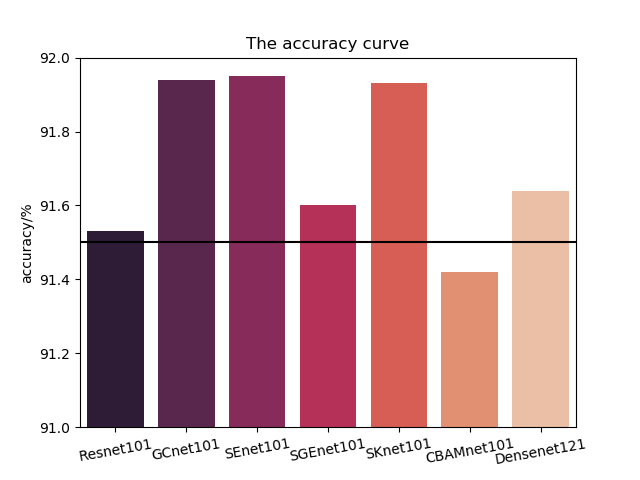
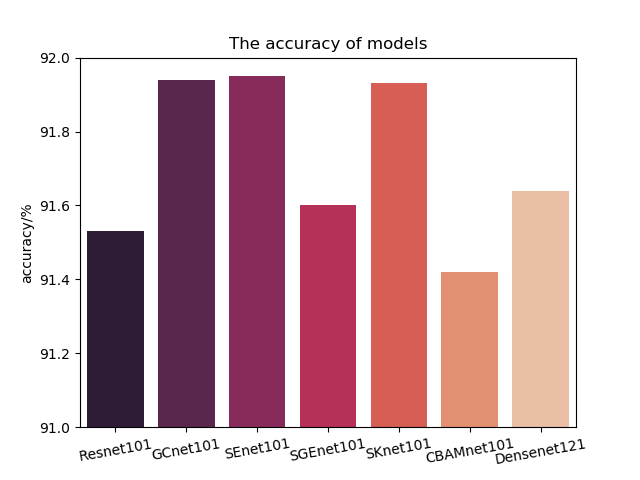
add activation maps

Changed region(s): [[0.125, 0.5, 0.9062, 0.5312], [0.3438, 0.0625, 0.6562, 0.125]]

diff --git a/data_analysis/exp_data_visulize.py b/data_analysis/exp_data_visulize.py
@@ -15,7 +15,7 @@ def drawPRCurve(model_list, p_list, r_list, save_path):
     ax.grid(True)
     plt.xlabel("recall/%")
     plt.ylabel("precision/%")
-    plt.title("The PR curve")
+    plt.title("The precision and recall scatter")
     plt.xlim([63, 67])
     plt.ylim([79, 80])
     plt.savefig(save_path)
@@ -42,7 +42,7 @@ if __name__ == "__main__":
     data = {
         "Resnet101": {"accuracy": 91.53, "precision": 79.81, "recall": 63.67, "F1": 68.52},
         "GCnet101": {"accuracy": 91.94, "precision": 79.45, "recall": 65.64, "F1": 68.94},
-        "SEnet101": {"accuracy": 91.95, "precision": 79.81, "recall": 66.64, "F1": 68.99},
+        "SEnet101": {"accuracy": 91.95, "precision": 79.81, "recall": 66.64, "F1": 69.99},
         "SGEnet101": {"accuracy": 91.60, "precision": 79.23, "recall": 65.40, "F1": 69.77},
         "SKnet101": {"accuracy": 91.93, "precision": 79.69, "recall": 65.54, "F1": 69.95},
         "CBAMnet101": {"accuracy": 91.42, "precision": 79.12, "recall": 65.32, "F1": 69.24},
@@ -69,7 +69,7 @@ if __name__ == "__main__":
             if k == "F1":
                 f_list.append(v)
 
-    drawPRCurve(model_list, p_list, r_list, "Precision-Recall Scatter");
-    drawBarPlot(model_list, acc_list, "accuracy/%",  "acc_curve","The model's accuracy", "accuracy")
-    drawBarPlot(model_list, f_list,"F1/%", "f1_curve","The model's F1 ", "f1")
+    drawPRCurve(model_list, p_list, r_list, "pr_scatter");
+    drawBarPlot(model_list, acc_list, "accuracy/%",  "acc_curve","The accuracy of models", "accuracy")
+    drawBarPlot(model_list, f_list,"F1/%", "f1_curve","The F1 of models", "f1")
     
